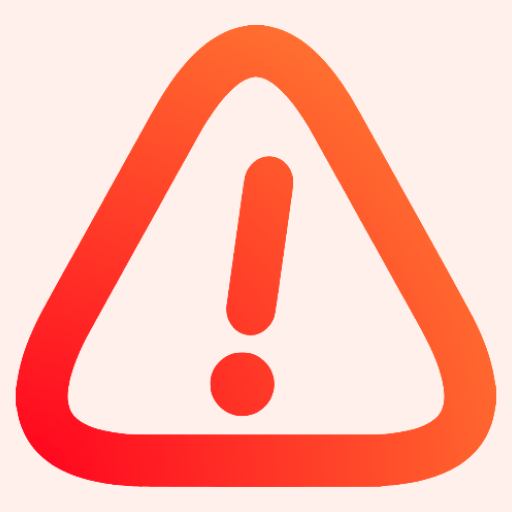
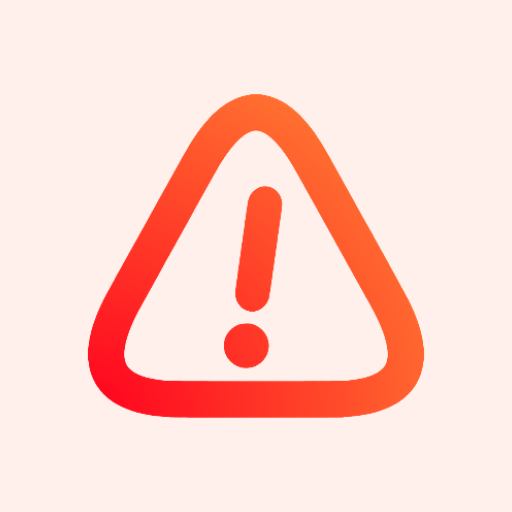
Reworkate le icone, addio nested try-catches

diff --git a/app/src/main/java/it/edu/iisfermisacconiceciap/safetyapp/Util.kt b/app/src/main/java/it/edu/iisfermisacconiceciap/safetyapp/Util.kt
@@ -9,20 +9,18 @@ import kotlinx.coroutines.launch
 import org.json.JSONException
 import org.json.JSONObject
 import org.json.JSONTokener
-import java.io.FileNotFoundException
 import java.net.ConnectException
 import java.net.HttpURLConnection
-import java.net.NoRouteToHostException
 import java.net.SocketTimeoutException
 import java.net.URL
 
 class Util(private val ctx: Context) {
     companion object {
-//        const val BASEURL = "http://192.168.178.22:3500/"
+        val BASEURL =
+            if (true) "http://192.168.178.22:3500/" else "http://172.20.1.13/safetyApp/"
 
-        const val BASEURL = "http://172.20.1.13/safetyApp/"
-        var lastThrownException = MutableSharedFlow<Exception?>(
-            extraBufferCapacity = 1,
+        var lastExceptionThrown = MutableSharedFlow<Exception?>(
+            replay = 1,
             onBufferOverflow = BufferOverflow.DROP_OLDEST
         )
     }
@@ -30,39 +28,32 @@ class Util(private val ctx: Context) {
     fun incrementPreferencesCounter(key: String) =
         CoroutineScope(Dispatchers.Default).launch { PreferencesManager(ctx).incrementInt(key) }
 
-    // TODO make cleaner, log more usefully
+    // TODO log more usefully
     fun doRequest(endpoint: String, process: suspend (response: JSONObject) -> Unit) {
         CoroutineScope(Dispatchers.IO).launch {
             val connection = URL(BASEURL + endpoint).openConnection().apply {
                 connectTimeout = 3000
                 readTimeout = 3000
             } as HttpURLConnection
-            try {
-                try {
-                    process(
-                        JSONTokener(
-                            connection.inputStream.reader().readLines().joinToString("\n")
-                        ).nextValue() as JSONObject
-                    )
-                } catch (e: Exception) {
-                    lastThrownException.emit(e)
-                    throw e
-                }
+            val response = connection.inputStream.reader().readText()
+            runCatching {
+                process(JSONTokener(response).nextValue() as JSONObject)
                 incrementPreferencesCounter("total_connections")
-                lastThrownException.emit(null)
-            } catch (_: SocketTimeoutException) {
-                incrementPreferencesCounter("total_unreachable")
-            } catch (_: ConnectException) {
-                incrementPreferencesCounter("total_unreachable")
-            } catch (e: NoRouteToHostException) {
-                println("No clue what this is ${e.message}")
-            } catch (e: FileNotFoundException) {
-                println(e)
-            } catch (e: JSONException) {
-                println(e.message)
-            } finally {
-                connection.disconnect()
+                lastExceptionThrown.emit(null)
+            }.onFailure { e ->
+                var e = e as Exception
+                when (e) {
+                    is SocketTimeoutException, is ConnectException -> {
+                        incrementPreferencesCounter("total_unreachable")
+                    }
+
+                    is JSONException -> {
+                        e = JSONException("${e.message} in $response")
+                    }
+                }
+                lastExceptionThrown.emit(e)
             }
+            connection.disconnect()
         }
     }
 

diff --git a/app/src/main/java/it/edu/iisfermisacconiceciap/safetyapp/SuccessScreen.kt b/app/src/main/java/it/edu/iisfermisacconiceciap/safetyapp/SuccessScreen.kt
@@ -75,7 +75,7 @@ fun StatusWidget() {
             Text(h2, style = MaterialTheme.typography.bodyLarge)
         }
         LaunchedEffect(Unit) {
-            Util.lastThrownException.collectLatest { e ->
+            Util.lastExceptionThrown.collectLatest { e ->
                 when {
                     e != null -> {
                         dotColor = Color.Red
@@ -123,7 +123,7 @@ fun StatCard(preferencesManager: PreferencesManager) {
                 .padding(15.dp)
                 .width(500.dp),
         ) {
-            Text("Ultima eccezione: $lastException")
+            Text("Ultimo errore: $lastException")
             Text("Connessioni avvenute con successo: $totalSuccessful")
             Text("Connessioni fallite: $totalUnreachable")
             Text("Ultimo reset: $lastReset")
@@ -142,7 +142,7 @@ fun StatCard(preferencesManager: PreferencesManager) {
         }
 
         LaunchedEffect(lastReset) {
-            Util.lastThrownException.collectLatest { e ->
+            Util.lastExceptionThrown.collectLatest { e ->
                 lastException = e?.message ?: "Nessuna"
                 totalSuccessful = preferencesManager.getInt("total_connections").toString()
                 totalUnreachable = preferencesManager.getInt("total_unreachable").toString()

diff --git a/app/src/main/java/it/edu/iisfermisacconiceciap/safetyapp/Background.kt b/app/src/main/java/it/edu/iisfermisacconiceciap/safetyapp/Background.kt
@@ -27,6 +27,7 @@ class Background : Service() {
         var currEmergency by mutableStateOf("Nessuna emergenza")
         var currDescrizione by mutableStateOf("Nessuna descrizione")
         var isEmergency = MutableLiveData<Boolean>(false)
+        var serverError = MutableLiveData<String?>(null)
         var snoozeUntil: Instant by mutableStateOf(Instant.now())
 
         // Stringa contente i secondi rimanenti di allarme disattivato, null => allarme in funzione
@@ -52,6 +53,7 @@ class Background : Service() {
     fun update() {
         wakeLock.acquire(10 * 60 * 1000L /*10 minutes*/)
         util.doRequest("requestSchoolStateJs.php") { response ->
+            serverError.postValue(if (response.has("ERROR")) response.getString("ERROR") else null)
             val receivedEmergency = (response.getInt("STATO") != 0)
             if (isEmergency.value!! != receivedEmergency) isEmergency.postValue(receivedEmergency)
             currEmergency = response.getString("MESSAGGIO")
